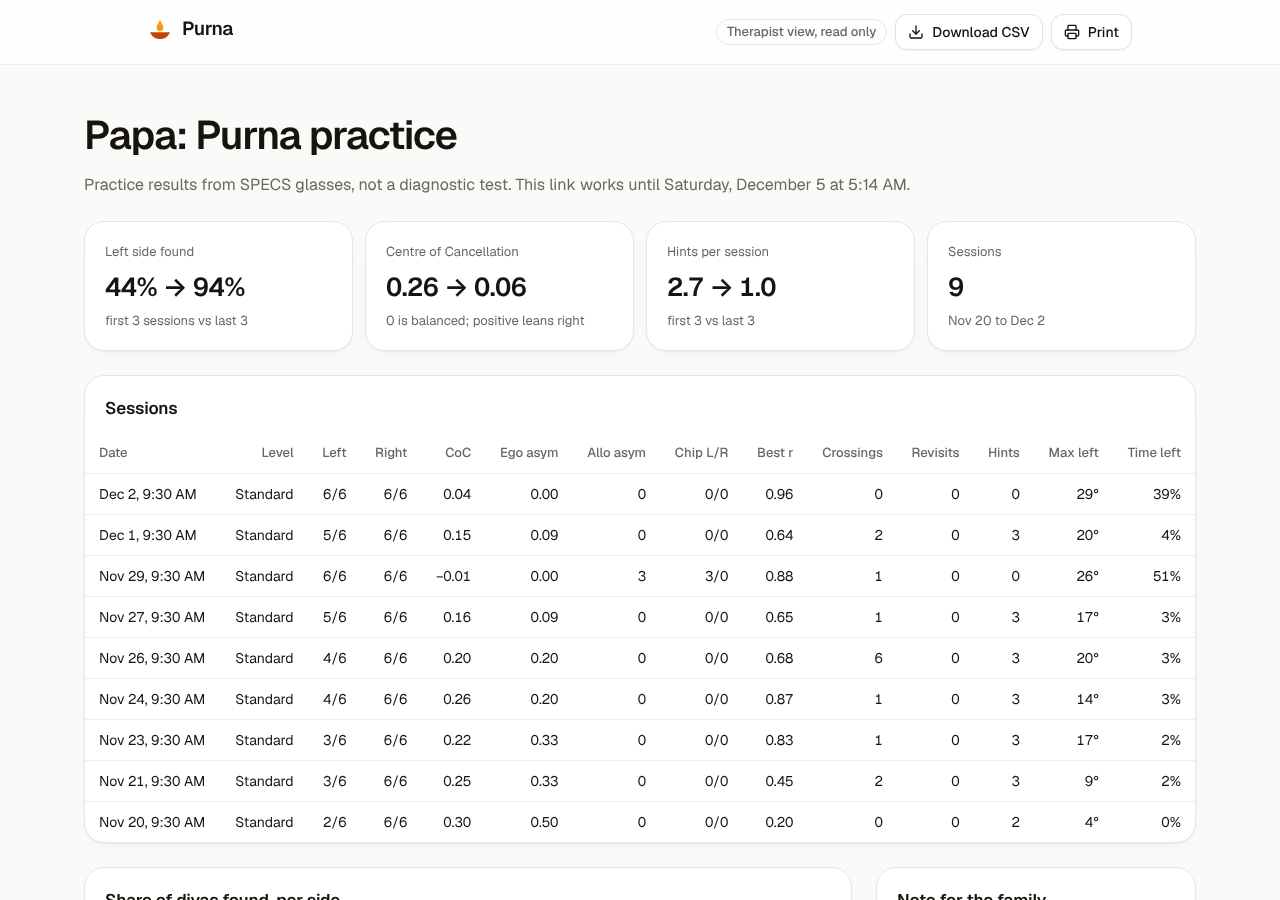
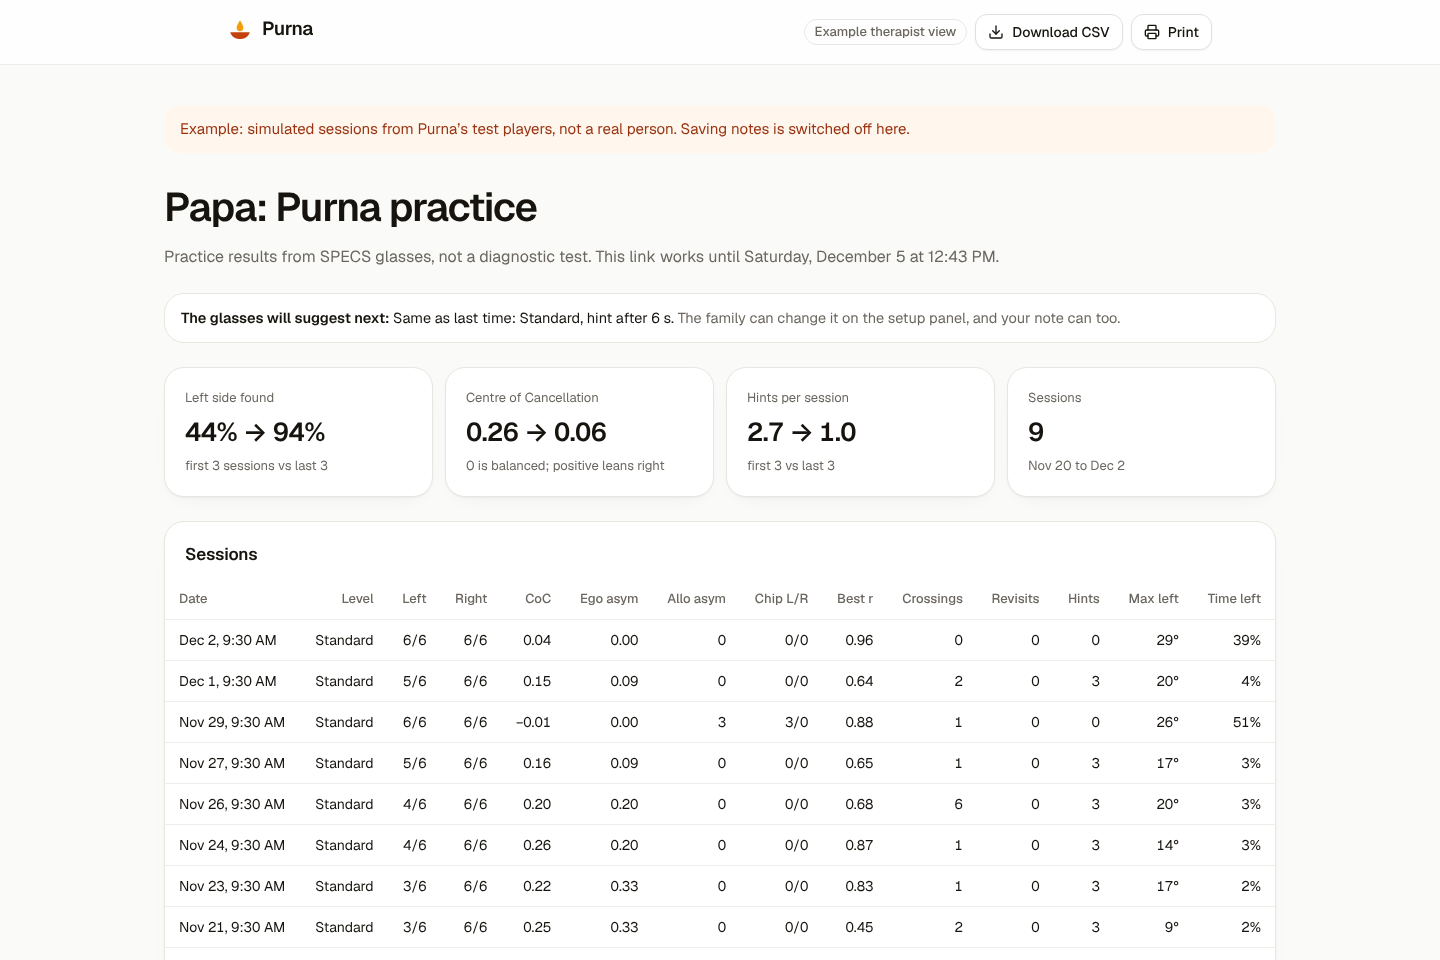
Update the README, testing doc, Devpost story and checklist

diff --git a/README.md b/README.md
@@ -11,7 +11,7 @@ A SPECS Lens for people who miss the left side of the world after a stroke,<br>a
 [![CI](https://github.com/harshbhx/purna/actions/workflows/ci.yml/badge.svg)](https://github.com/harshbhx/purna/actions/workflows/ci.yml)
 [![Deploy](https://github.com/harshbhx/purna/actions/workflows/deploy.yml/badge.svg)](https://github.com/harshbhx/purna/actions/workflows/deploy.yml)
 ![Core coverage](https://img.shields.io/badge/core%20coverage-98.9%25-2f7d4f)
-![Tests](https://img.shields.io/badge/tests-200-2f7d4f)
+![Tests](https://img.shields.io/badge/tests-223-2f7d4f)
 [![License: MIT](https://img.shields.io/badge/license-MIT-c8651b)](LICENSE)
 
 [purna.dualmindlab.tech](https://purna.dualmindlab.tech) · Built for **Learn AR with SPECS, Round 2** · [Why it's built this way](docs/10-RESEARCH.md)
@@ -90,6 +90,8 @@ These are **simulated players, not patients**. The bench proves the measures sep
 
 ## For judges
 
+**Start with [JUDGES.md](JUDGES.md)**: a one-minute summary, a two-minute tour (including the [example therapist view](https://purna.dualmindlab.tech/doctor#demo)), the evidence for each criterion, honest status, and answers to the questions you'll likely have.
+
 | Criterion | Where to look |
 |---|---|
 | **Design** | One spatial moment done well: stuck, a bell from the left, the head turns. Layout in cm for a seated person, colours for an additive display, no score or timer during the task ([design](docs/02-DESIGN.md)) |
@@ -101,8 +103,8 @@ These are **simulated players, not patients**. The bench proves the measures sep
 
 | Part | State |
 |---|---|
-| Core logic: layout, hints, beam fading, metrics, report | ✅ logic proven (47 tests) |
-| Purna Family: landing, API, database, web app, doctor view | ✅ works end to end in Chrome, WCAG 2.1 AA checked, rate-limited (140 tests) |
+| Core logic: layout, hints, beam fading, metrics, report, next-session suggestion | ✅ logic proven (55 tests) |
+| Purna Family: landing, API, database, web app, doctor view | ✅ works end to end in Chrome, WCAG 2.1 AA checked, rate-limited (155 tests) |
 | Lens scene in Lens Studio (CLAD) | 🛠 in progress; LEAF results land here |
 | How it feels to a real stroke survivor | ❓ feel unproven, not tested with patients |
 
@@ -134,10 +136,10 @@ flowchart LR
 
 | Suite | Command | What it proves |
 |---|---|---|
-| Core, patient bench, sounds | `cd tools && npm test` | Layout rules on 500 seeds × 3 levels, hint timing, beam fading, metrics, the engine's phases, the bench, and each sound against the design spec (60 tests, coverage gate 85%) |
+| Core, patient bench, sounds | `cd tools && npm test` | Layout rules on 500 seeds × 3 levels, hint timing, beam fading, metrics, the engine's phases, the bench, the next-session suggestion, and each sound against the design spec (68 tests, coverage gate 85%) |
 | Worker + local D1 | `cd family && npm test` | Every API route and error, field-by-field validation, crypto, the engine → server contract over every preset and add-on, and the rate limits on pairing, uploads and notes (74 tests) |
-| Web app | `npm run test:web` | React components in jsdom: the night-table animation and reduced motion, replay and trend SVGs, the app shell, dashboard dialogs and therapist view, CSV export with formula-injection guards, the API client, the three-searcher explainer (one layout, verdicts from the numbers, arrow-key tabs), and every dashboard tool against a fake server: share and stop sharing, invite, import, delete, sign out (38 tests) |
-| End to end | `npm run test:e2e` | Real Chrome against the production build on `wrangler dev`: the landing (animation, reduced motion, no sideways scroll from 320 to 1440 px, phone menu), pair, dashboard, replay, doctor link, CSV, note, invite, import, delete; stopping a doctor link, the print layout, dead links; a keyboard-only walk (skip link, tabs, Enter and Escape with focus returned); and axe WCAG 2.1 AA scans of every screen and dialog in light and dark mode. Each runs on phone and desktop (28 tests) |
+| Web app | `npm run test:web` | React components in jsdom: the night-table animation and reduced motion, replay and trend SVGs, the app shell, dashboard dialogs and therapist view, CSV export with formula-injection guards, the API client, the three-searcher explainer (one layout, verdicts from the numbers, arrow-key tabs), every dashboard tool against a fake server (share and stop sharing, invite, import, delete, sign out), and the therapist view's day-to-day band, where-the-time-went chart, context card and example mode (48 tests) |
+| End to end | `npm run test:e2e` | Real Chrome against the production build on `wrangler dev`: the landing (animation, reduced motion, no sideways scroll from 320 to 1440 px, phone menu), pair, dashboard, replay, doctor link, CSV, note, invite, import, delete; stopping a doctor link, the print layout, dead links; a keyboard-only walk (skip link, tabs, Enter and Escape with focus returned); axe WCAG 2.1 AA scans of every screen and dialog in light and dark mode; the link preview and install files; and the example therapist view. Each runs on phone and desktop (33 tests) |
 
 **CI** ([`ci.yml`](.github/workflows/ci.yml)) runs all of it on every pull request, builds the web app, puts coverage in the job summary, lints the shell scripts, and fails if the bench chart or demo data are stale. **CD** ([`deploy.yml`](.github/workflows/deploy.yml)) runs after CI passes on `main`: builds the web app, applies D1 migrations, runs `wrangler deploy`, then smoke-tests the live site.
 
@@ -159,7 +161,7 @@ npm run sample -- --post http://localhost:8787 0123456789abcdef0123456789abcdef 
 | Path | What |
 |---|---|
 | [`devpost/`](devpost) | The plan-lens answers, the design brief CLAD builds from, the Devpost story and the video script |
-| [`docs/`](docs) | [PRD](docs/01-PRD.md) · [design](docs/02-DESIGN.md) · [architecture](docs/03-ARCHITECTURE.md) · [tasks](docs/04-TASKS.md) · [prompts](docs/05-PROMPTS.md) · [testing](docs/06-TESTING.md) · [submission](docs/07-SUBMISSION.md) · [research](docs/10-RESEARCH.md) |
+| [`docs/`](docs) | [PRD](docs/01-PRD.md) · [design](docs/02-DESIGN.md) · [architecture](docs/03-ARCHITECTURE.md) · [tasks](docs/04-TASKS.md) · [prompts](docs/05-PROMPTS.md) · [testing](docs/06-TESTING.md) · [submission](docs/07-SUBMISSION.md) · [live review](docs/08-LIVE-REVIEW.md) · [research](docs/10-RESEARCH.md) |
 | [`Assets/Scripts/Core/`](Assets/Scripts/Core) | The engine: layout, hints, metrics, report |
 | [`tools/`](tools) | Core tests, the patient bench, the bench chart |
 | [`family/`](family) | Purna Family: Worker (`src/`), D1 migration, React web app (`web/`), all its tests |

diff --git a/devpost/STORY.md b/devpost/STORY.md
@@ -32,11 +32,15 @@ We wanted that exercise at home, on the person's own dining table, in something 
 4. Stuck on the right for 6 seconds with dark diyas still on the left? A **temple bell rings from the left** and a soft beam pulses there. Six seconds more, the beam sweeps left. **The hint points to the side, never to the answer.** The beam fades as the person starts finding left diyas on their own.
 5. When the table is done, a glowing **thread replays the search path**. The numbers show the order the diyas were found; the ones missed pulse where they were. The person sees their own blind half.
 6. A report card shows four measures in plain words, labelled "Practice result, not a diagnosis". One pinch sends it home.
+7. Next time, the setup panel suggests the level: two clean sessions in a row step it up, a hard one steps it down, with a one-line reason the carer can override.
+
+Every diya can be pinched with a ray from a hand resting in the lap, so nobody has to reach across the body with their stronger hand.
 
 **Purna Family** ([purna.dualmindlab.tech](https://purna.dualmindlab.tech)) is the web side:
 
 - **Families** type the code shown on the glasses once (like `DIYA-7K3P`). Then every session arrives as one plain sentence, two left/right bars and a trend line, and brothers and sisters join with an invite link.
 - **Therapists** get a read-only link that lasts 7 days and can be stopped at any time: every session with the numbers a cancellation test gives (Centre of Cancellation, egocentric and allocentric asymmetry, search order, crossings, revisits, head turn), a 2D replay, CSV export, a print layout, and a notes box that sends a note back to the family.
+- The therapist view also shows each person's usual day-to-day change as a band on the trend (so a lucky day isn't read as recovery), where the searching time went across the table, and published cancellation-test references as context, never as a pass/fail line. Anyone can open [an example](https://purna.dualmindlab.tech/doctor#demo).
 - **"Three ways to search the same table"** on the home page explains the measures: one layout, played by three simulated searchers through the real engine. Switch between them and the measures that give each one away light up.
 
 **[after CLAD]** Add-ons built: warm-up with diyas drifting leftward only / far board at 2 m (keep only what passed LEAF).
@@ -53,7 +57,7 @@ We wanted that exercise at home, on the person's own dining table, in something 
 
 **Purna Family** is a Cloudflare Worker with D1. Family keys and doctor tokens are 32 random bytes and stored only as SHA-256 hashes. The web app is React with shadcn/ui, React Bits and Aceternity-style effects, behind a strict Content Security Policy (no third-party scripts). A **contract test** runs the real engine through every level, add-on and searcher and checks that each session passes the server's validator, so the glasses and the server can't drift apart.
 
-**Tested like a product.** 200 automated tests: Core, bench and sounds 60, Worker and local D1 74, web components 38, and 28 end-to-end tests in real Chrome at phone and desktop sizes. The end-to-end suite runs axe accessibility checks (WCAG 2.1 AA) on every screen in light and dark mode, walks the keyboard path, and plays the whole family loop: pair, share with the doctor, note back, delete everything. GitHub Actions runs it all on every pull request and deploys after green CI on main.
+**Tested like a product.** 223 automated tests: Core, bench and sounds 68, Worker and local D1 74, web components 48, and 33 end-to-end tests in real Chrome at phone and desktop sizes. The end-to-end suite runs axe accessibility checks (WCAG 2.1 AA) on every screen in light and dark mode, walks the keyboard path, and plays the whole family loop: pair, share with the doctor, note back, delete everything. GitHub Actions runs it all on every pull request and deploys after green CI on main.
 
 ## Challenges we ran into
 
@@ -108,6 +112,8 @@ We wanted that exercise at home, on the person's own dining table, in something 
 ## Testing instructions for judges
 
 1. **The Lens:** open the project in Lens Studio 5.x, press Preview. Pick Standard, then Start. Light the right-side diyas and wait 6 s to hear the bell from the left. Light everything, watch the replay, read the report. **[after CLAD: any preview tips, e.g. right-drag to turn the head]**
-2. **Purna Family:** open https://purna.dualmindlab.tech and press **See an example**: a labelled demo dashboard from simulated sessions. Open any session for its replay and measures.
+2. **Purna Family:** open https://purna.dualmindlab.tech and press **See an example**: a labelled demo dashboard from simulated sessions. Open any session for its replay and measures. The therapist side is at https://purna.dualmindlab.tech/doctor#demo.
+
+A one-page guide for judges is in the repo: `JUDGES.md`.
 3. **Three ways to search:** on the home page, switch between the three searchers under "Three ways to search the same table".
 4. **Tests:** `cd tools && npm ci && npm test`, then `cd family && npm ci && npm test && npm run test:web && npm run test:e2e`.

diff --git a/docs/06-TESTING.md b/docs/06-TESTING.md
@@ -62,10 +62,10 @@ Status 28 Nov, all in CI:
 
 | Suite | Command | Count |
 |---|---|---|
-| Core + patient bench + sounds | `cd tools && npm test` | 60 tests (47 Core and bench, 13 sounds), 98.9% Core lines |
+| Core + patient bench + sounds | `cd tools && npm test` | 68 tests (47 Core and bench, 8 next-session suggestion, 13 sounds), 98.9% Core lines |
 | Worker + local D1 (API, validator, crypto, engine contract, rate limits) | `cd family && npm test` | 74 tests |
-| React web app in jsdom (night table, replay, trend, app shell, therapist view, CSV, API client; the three-searcher explainer; every dashboard tool against a fake server) | `npm run test:web` | 38 tests |
-| End-to-end, real Chrome vs the production build on `wrangler dev` (phone + desktop) | `npm run test:e2e` | 28 tests on 2 viewports: landing animation, reduced motion, no sideways scroll from 320 to 1440 px, phone menu, every family and doctor flow, stopping a doctor link, print layout, dead links, a keyboard-only walk, and axe WCAG 2.1 A/AA scans of every screen and dialog in light and dark (`e2e/a11y.spec.ts`) |
+| React web app in jsdom (night table, replay, trend, app shell, therapist view, CSV, API client; the three-searcher explainer; every dashboard tool against a fake server) | `npm run test:web` | 48 tests |
+| End-to-end, real Chrome vs the production build on `wrangler dev` (phone + desktop) | `npm run test:e2e` | 33 tests on 2 viewports: landing animation, reduced motion, no sideways scroll from 320 to 1440 px, phone menu, every family and doctor flow, stopping a doctor link, print layout, dead links, a keyboard-only walk, and axe WCAG 2.1 A/AA scans of every screen and dialog in light and dark (`e2e/a11y.spec.ts`) |
 
 The **contract test** runs the real engine with the simulated players through every preset × far board × warm-up and checks each session passes the server's validator and fits in 64 KB, so the Lens and Purna Family can't drift apart.
 

diff --git a/devpost/VIDEO.md b/devpost/VIDEO.md
@@ -71,7 +71,7 @@ Voice is calm and slow, like explaining to a family. Music: none, or a soft orig
 | 2:04 | Desktop: share with doctor, the therapist view, table and replay. Note back. | The therapist gets a seven-day link with every number a cancellation test gives, and writes a note back. |
 | 2:12 | "Three ways to search the same table": switch tabs, highlighted measures. | And the site explains what the numbers mean. |
 | 2:16 | Code: `Assets/Scripts/Core`, then the bench chart, then GitHub Actions green. | Every rule is plain TypeScript, tested before Lens Studio opened. CLAD built the scene from our plan-lens brief, and LEAF checks each done criterion. |
-| 2:26 | Bench chart close-up. | Three simulated searchers on two hundred tables prove the report tells left neglect from object neglect. Two hundred automated tests run on every change. |
+| 2:26 | Bench chart close-up. | Three simulated searchers on two hundred tables prove the report tells left neglect from object neglect. Over two hundred automated tests run on every change. |
 | 2:36 | Back to the lit table, whole. Text: "Practice tool, not a medical device. Simulated players, not patients." | Purna is a practice tool, not a medical device, and it hasn't met a patient yet. That's next. |
 | 2:43 | Logo: Purna पूर्ण. "purna.dualmindlab.tech". | Purna. Whole. |
 

diff --git a/docs/07-SUBMISSION.md b/docs/07-SUBMISSION.md
@@ -18,9 +18,10 @@ Script, chapters, YouTube title and description: [`devpost/VIDEO.md`](../devpost
 Paste-ready: [`devpost/STORY.md`](../devpost/STORY.md). Fill every **[after CLAD]** line with real results, then delete the markers.
 
 - [ ] Tagline, elevator pitch, story, built-with tags
+- [ ] Gallery: upload `devpost/gallery/01–05` (1500 × 1000), then add Lens preview screenshots
 - [ ] LEAF results in "How we built it"
 - [ ] Testing instructions for judges
-- [ ] Every number matches the README and CI (tests 200; bench numbers from `docs/img/bench.svg`)
+- [ ] Every number matches the README and CI (tests 223; bench numbers from `docs/img/bench.svg`)
 
 ## 3. Repository
 
@@ -37,5 +38,6 @@ In `devpost/STORY.md` § Disclosures: AI coding assistants (Claude, CLAD), React
 
 - [ ] CI green on `main`; https://purna.dualmindlab.tech is live and "See an example" works logged out
 - [ ] The Lens opens and runs in a clean Lens Studio install from a fresh clone
+- [ ] `JUDGES.md` matches the final build; the live-review notes (`08-LIVE-REVIEW.md`) are folded in
 - [ ] Judge simulation done (`06-TESTING.md` §7): someone new can say who it's for, the moment, why glasses, whether it works, and its limits
 - [ ] Devpost form: repo URL, video URL, text, tags, team, submitted
